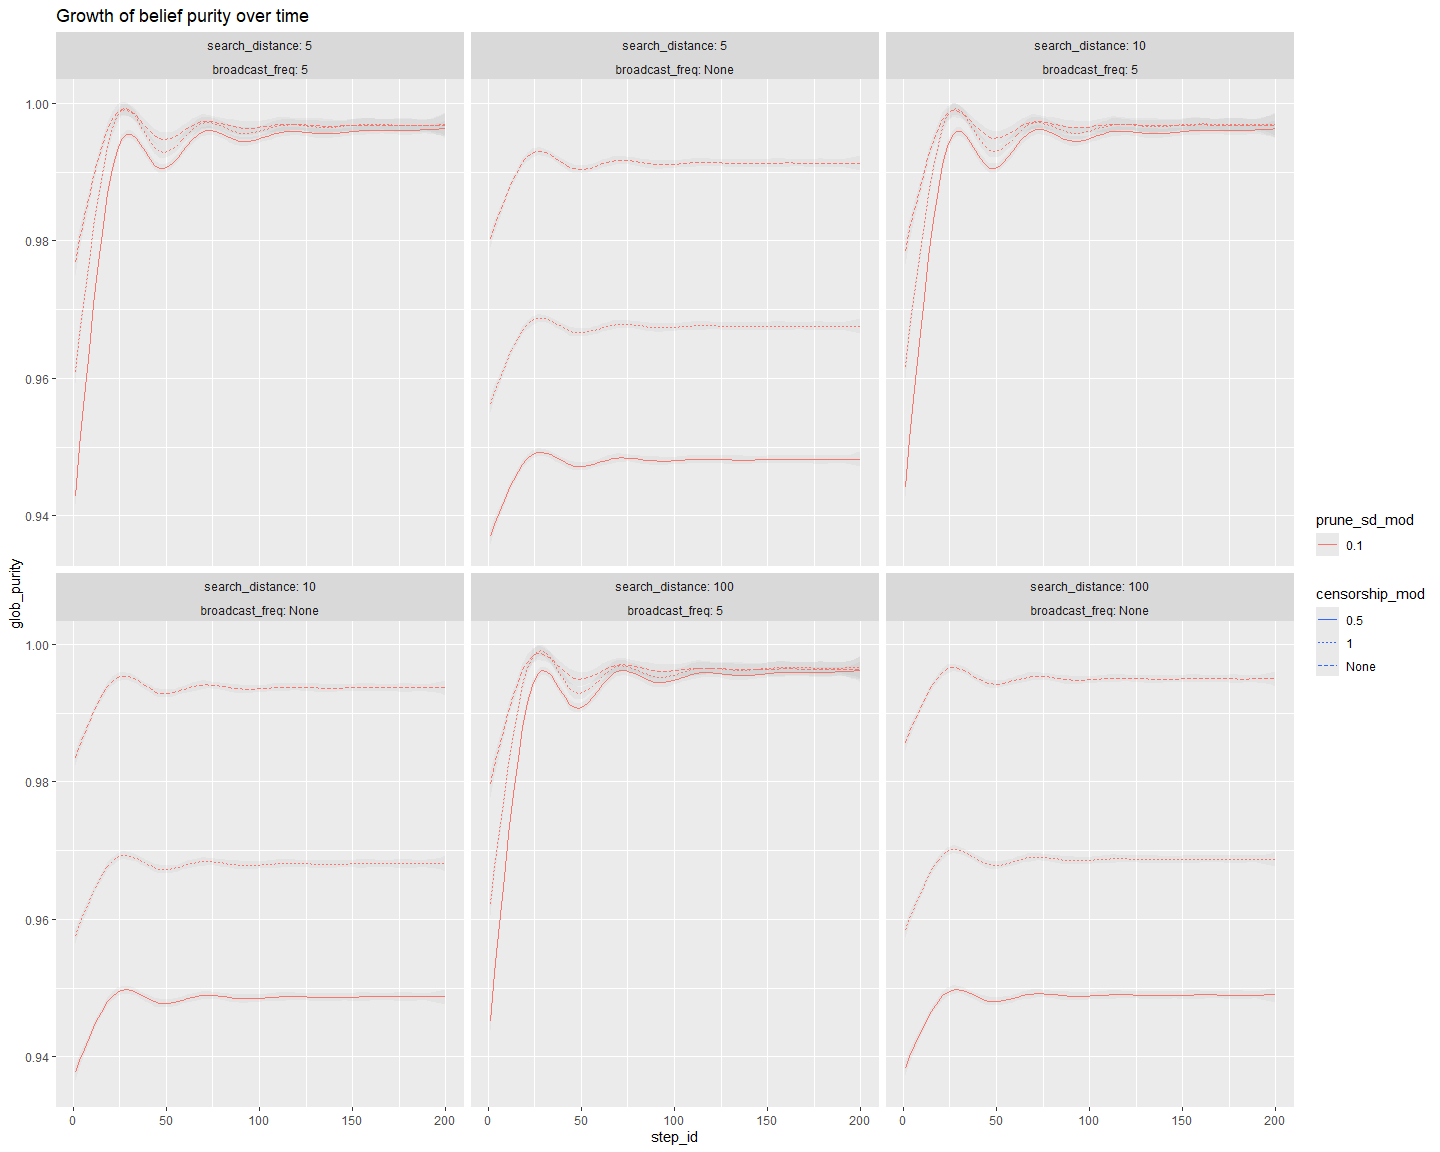
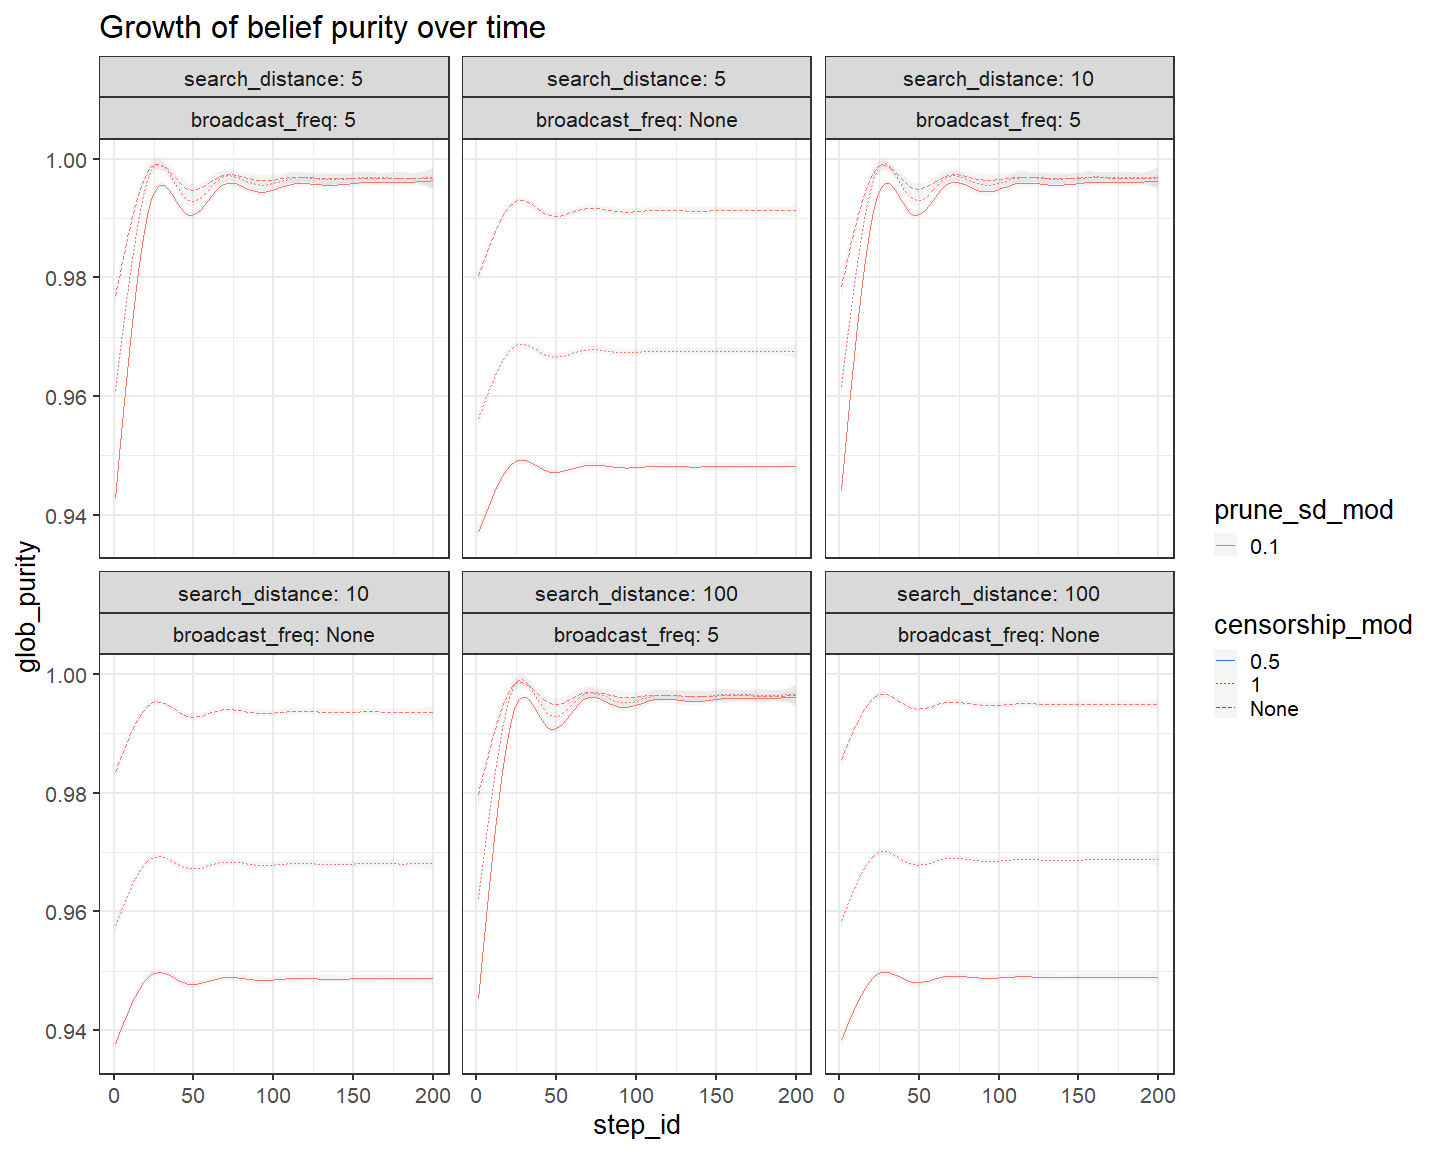
made all text larger

diff --git a/echoPlots.md b/echoPlots.md
@@ -7,7 +7,7 @@ Peter Thramkrongart and Asger Lakkenborg
 
 ``` r
 setwd("D:\\Users\\thram_000\\OneDrive\\cog data\\SocKult\\ABM_SocKult")
-pacman::p_load(rJava, RNetLogo, tidyverse, parallel)
+pacman::p_load(rJava, RNetLogo, tidyverse, parallel,egg,wesanderson)
 
 ABM_Data <- read_csv("D:\\Users\\thram_000\\OneDrive\\cog data\\SocKult\\ABM_SocKult\\ABM_Data10.csv")
 ```
@@ -100,6 +100,8 @@ ABM_DataBasic <- ABM_Data %>%
 
 distributionDataBasic <- distributionData %>% 
   filter(numlearners == 1000,broadcast_freq == "None", censorship_mod == "None")
+
+theme_set(theme_bw(base_size = 20))
 ```
 
 ``` r
@@ -108,7 +110,7 @@ distributionData %>% filter(numlearners == 1000) %>%
     `prior-val`,
     search_distance,
     fill = prune_sd_mod
-  ))  + facet_wrap(censorship_mod ~ broadcast_freq, labeller = label_both) + geom_boxplot(outlier.size = 0.1) + ggtitle("Distribution of beliefs")
+  ))  + facet_wrap(censorship_mod ~ broadcast_freq, labeller = label_both) + geom_boxplot(outlier.size = 0.1) + ggtitle("Distribution of beliefs") 
 ```
 
 ![](echoPlots_files/figure-gfm/unnamed-chunk-1-1.png)<!-- -->
@@ -154,6 +156,14 @@ ABM_Data %>%
     ## `geom_smooth()` using method = 'loess' and formula 'y ~ x'
 
 ![](echoPlots_files/figure-gfm/unnamed-chunk-4-1.png)<!-- -->
+
+``` r
+?facet_wrap
+```
+
+    ## starting httpd help server ...
+
+    ##  done
 
 ``` r
 distributionData %>% filter(step_id == 50, numlearners == 1000, censorship_mod == "None") %>%
